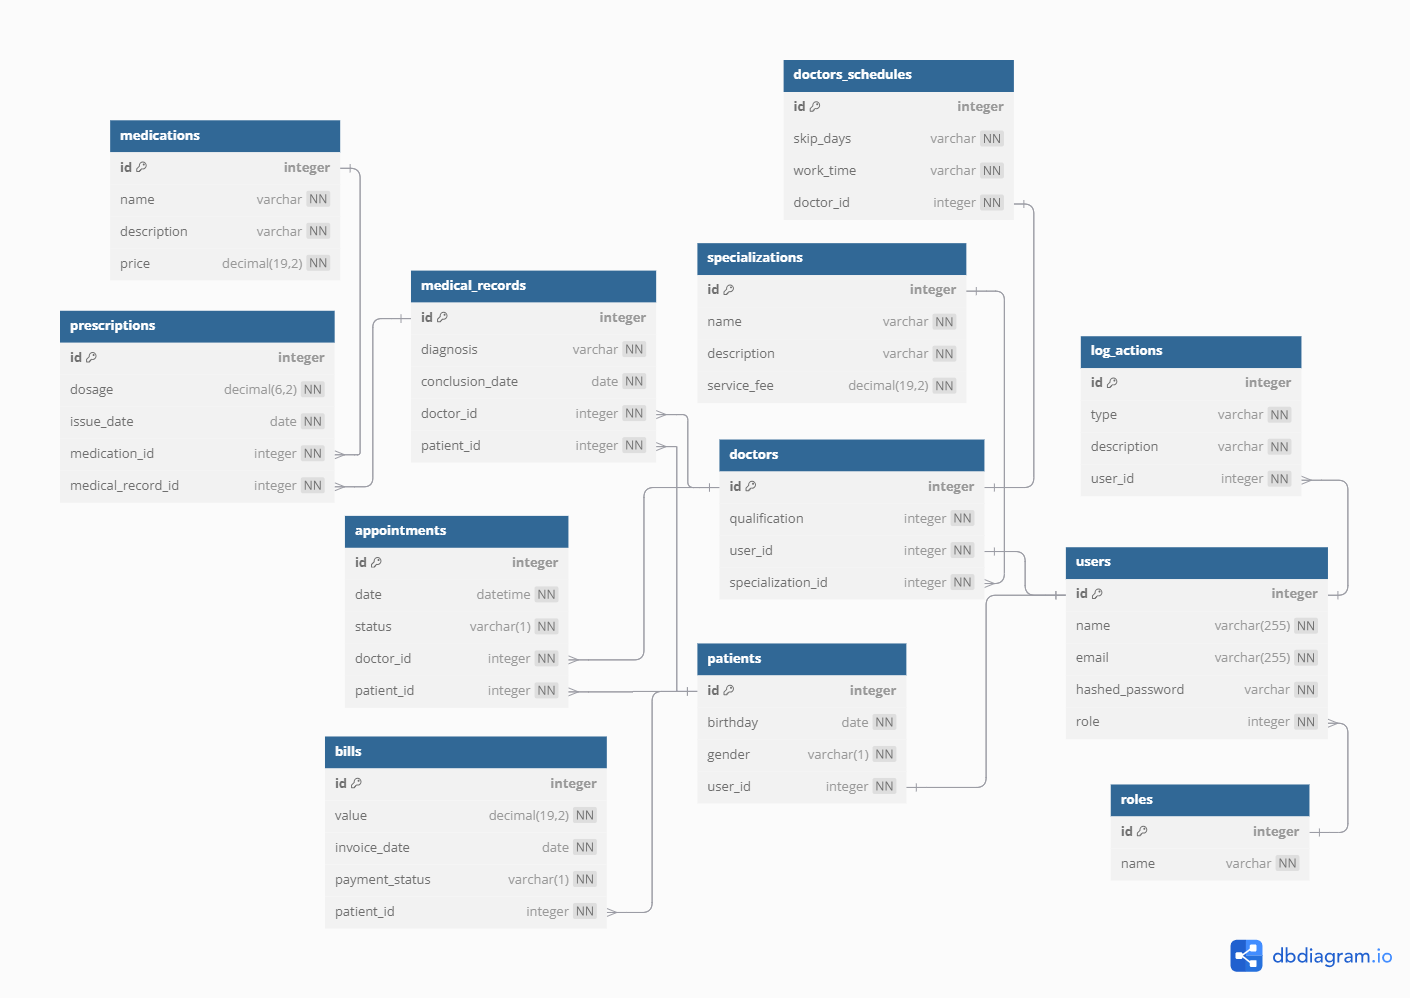
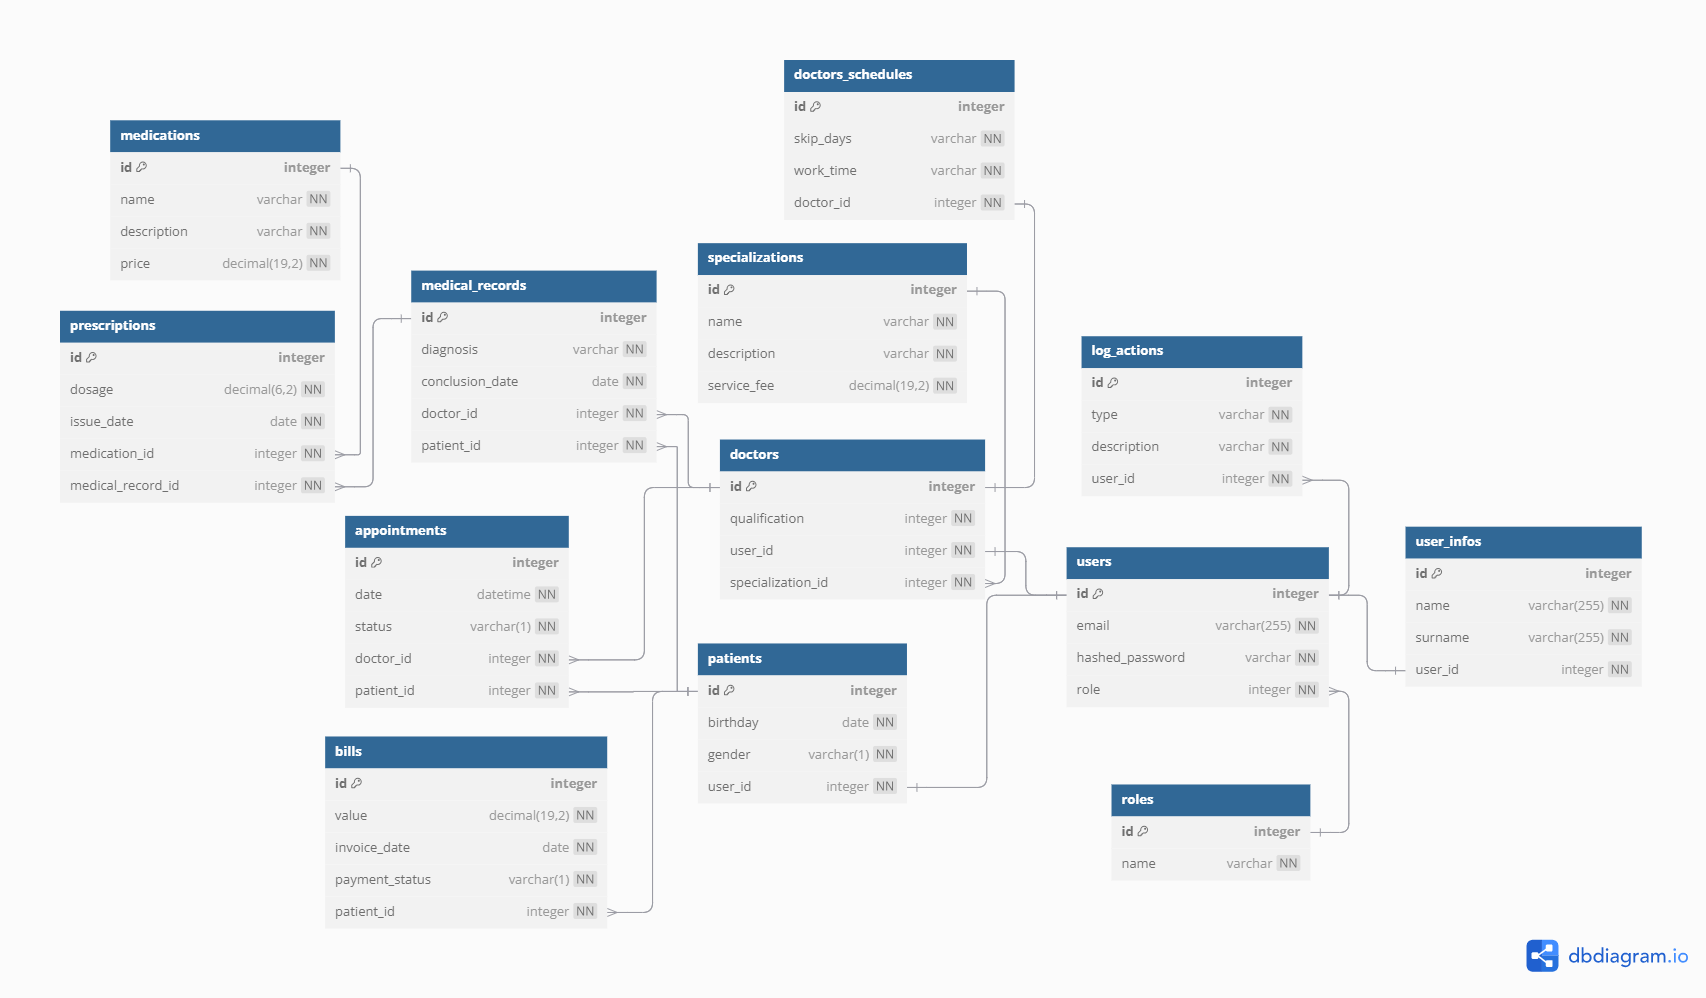
added new table in db

diff --git a/README.md b/README.md
@@ -37,7 +37,6 @@ CREATE TABLE "roles" (
 > Пользователь:  
 > (связь многие к одному с сущностью 'Роль')  
 > id - уникальный идентификатор  
-> name - имя пользователя  
 > email - электронная почта пользователя для связи  
 > password - пароль от аккаунта  
 > role - идентификатор роли пользователя
@@ -45,11 +44,26 @@ CREATE TABLE "roles" (
 ```
 CREATE TABLE "users" (
   "id" INTEGER GENERATED BY DEFAULT AS IDENTITY PRIMARY KEY,
-  "name" varchar(255) NOT NULL,
   "email" varchar(255) UNIQUE NOT NULL,
   "password" text NOT NULL,
   "role" integer NOT NULL DEFAULT -1 REFERENCES "roles" ("id") ON DELETE SET DEFAULT ON UPDATE CASCADE
 );
+```
+
+> Информация пользователя:  
+> (связь один к одному с сущностью 'Пользователь')  
+> id - уникальный идентификатор  
+> name - имя пользователя  
+> surname - фамилия пользователя  
+> user_id - идентификатор пользователя
+
+```
+CREATE TABLE "user_infos" (
+  "id" INTEGER GENERATED BY DEFAULT AS IDENTITY PRIMARY KEY,
+  "name" varchar(255) NOT NULL,
+  "surname" varchar(255) NOT NULL,
+  "user_id" integer NOT NULL REFERENCES "users" ("id") ON DELETE CASCADE ON UPDATE CASCADE
+)
 ```
 
 > Запись действия пользователя:  
